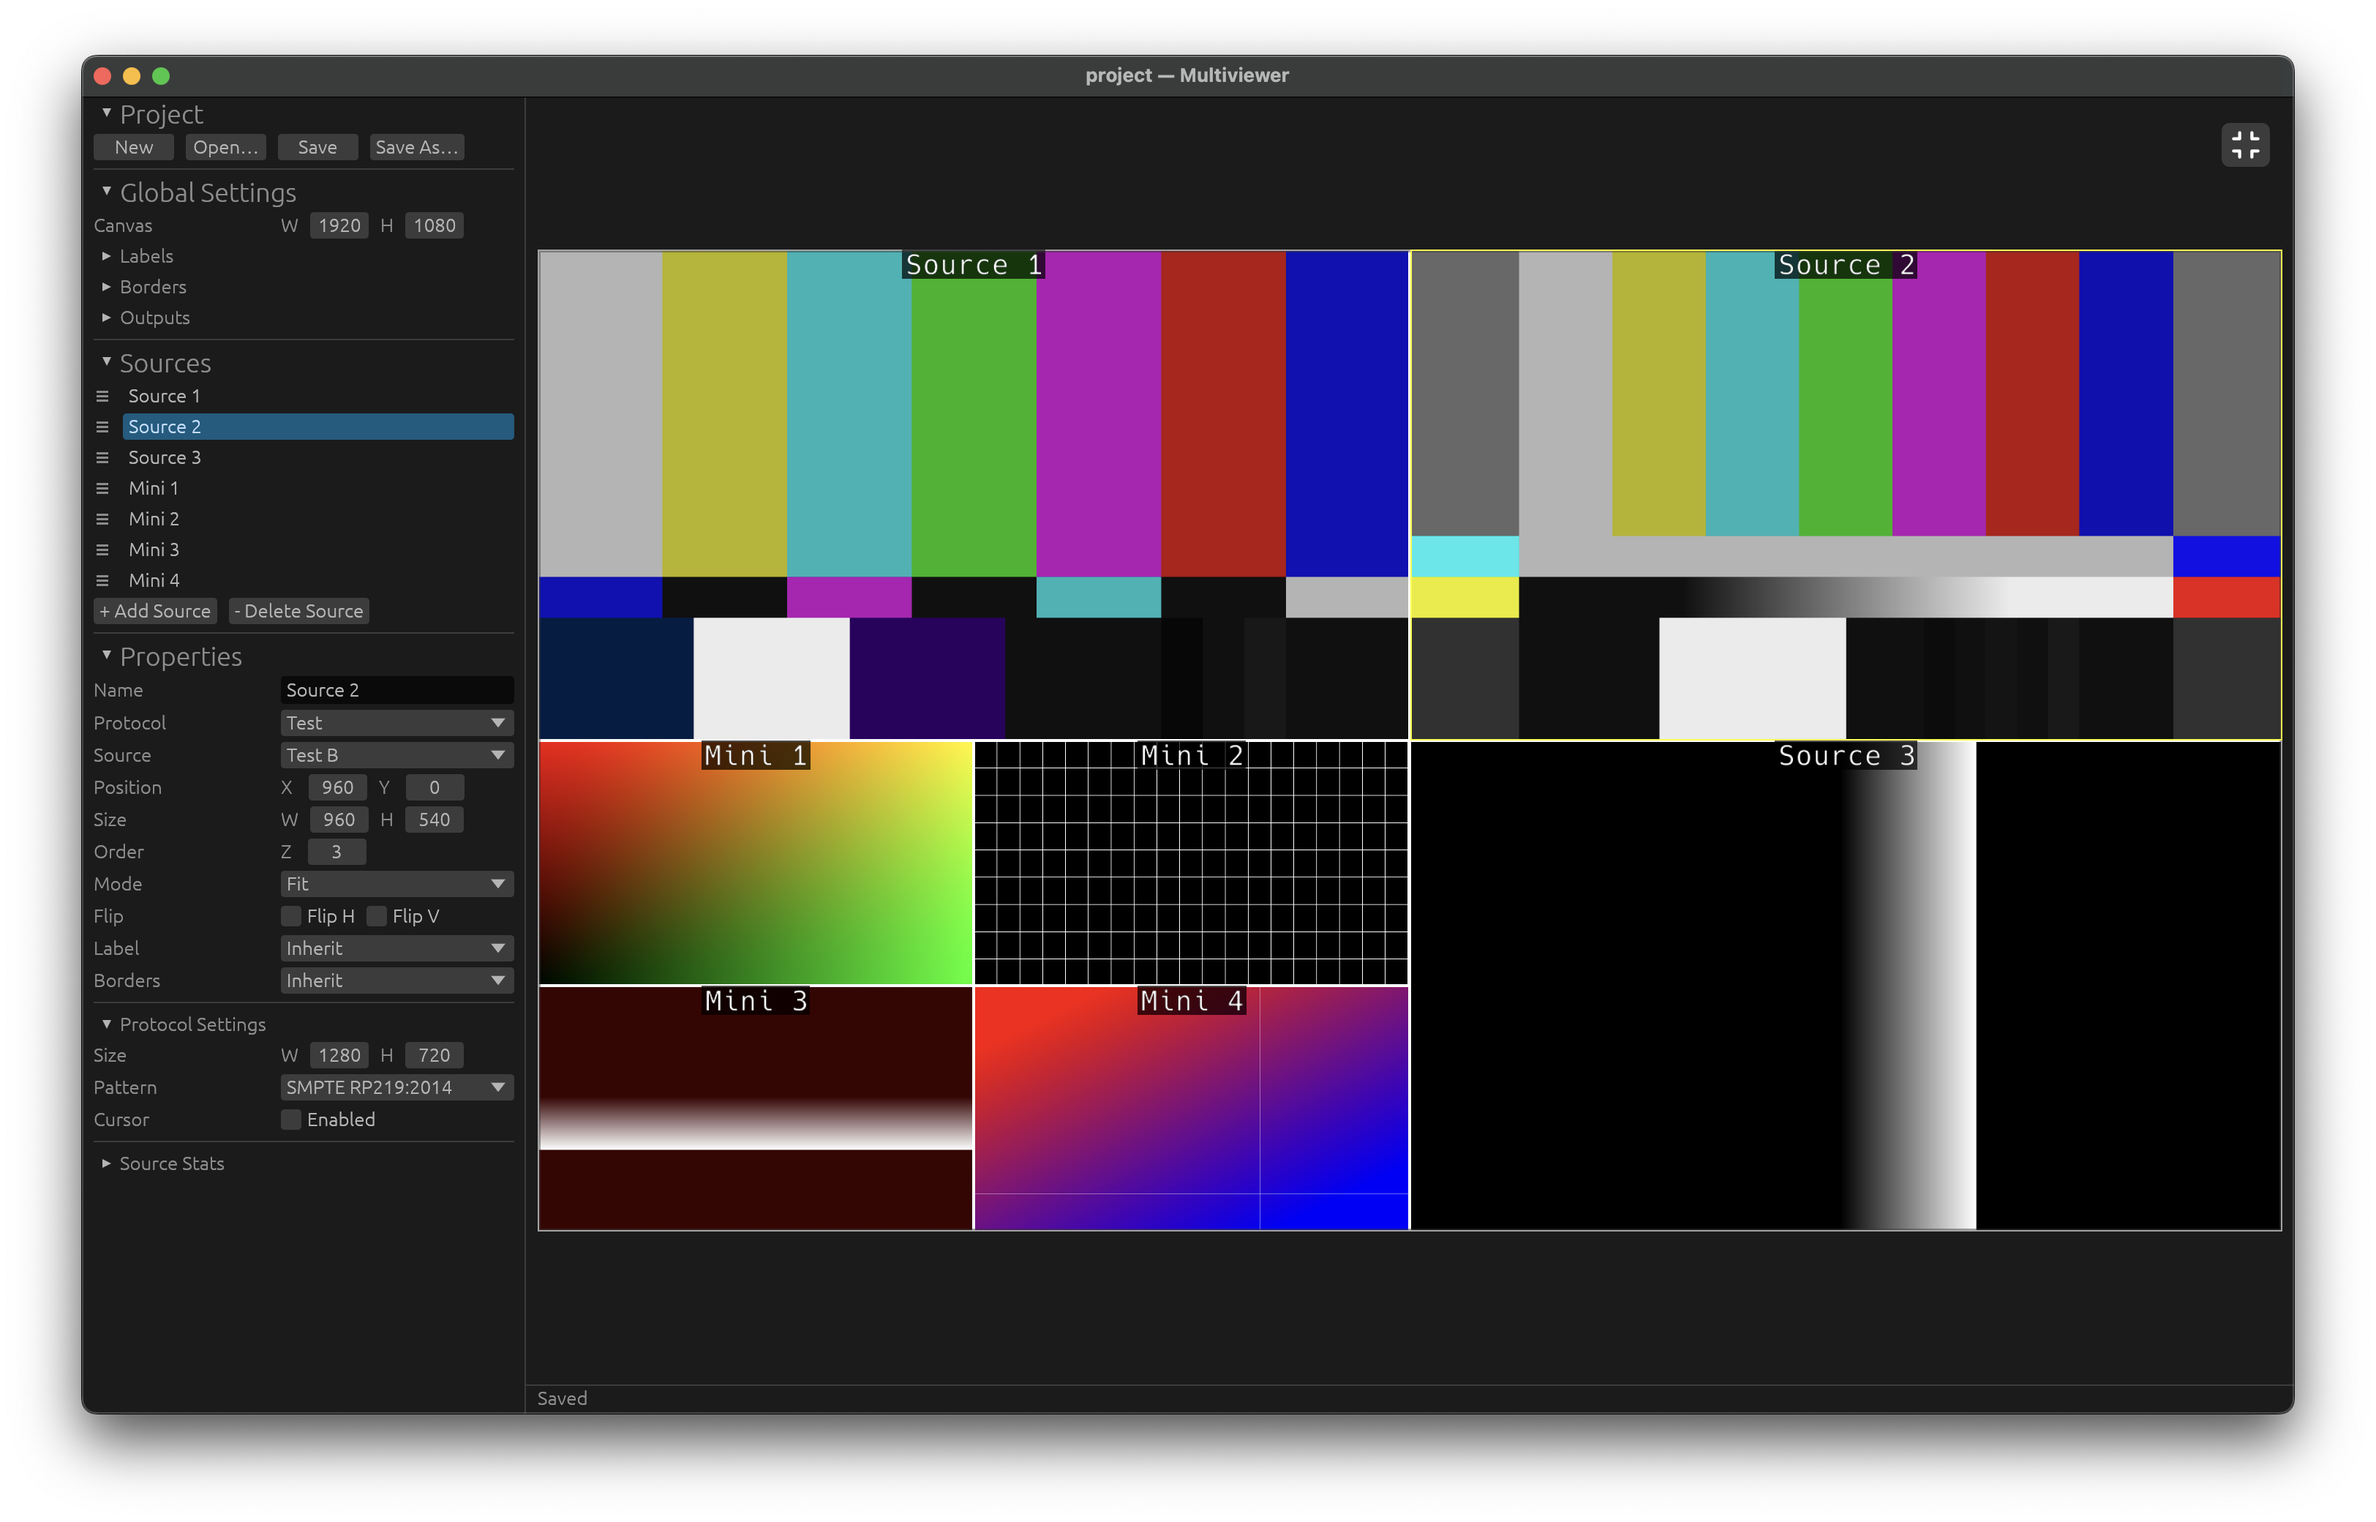
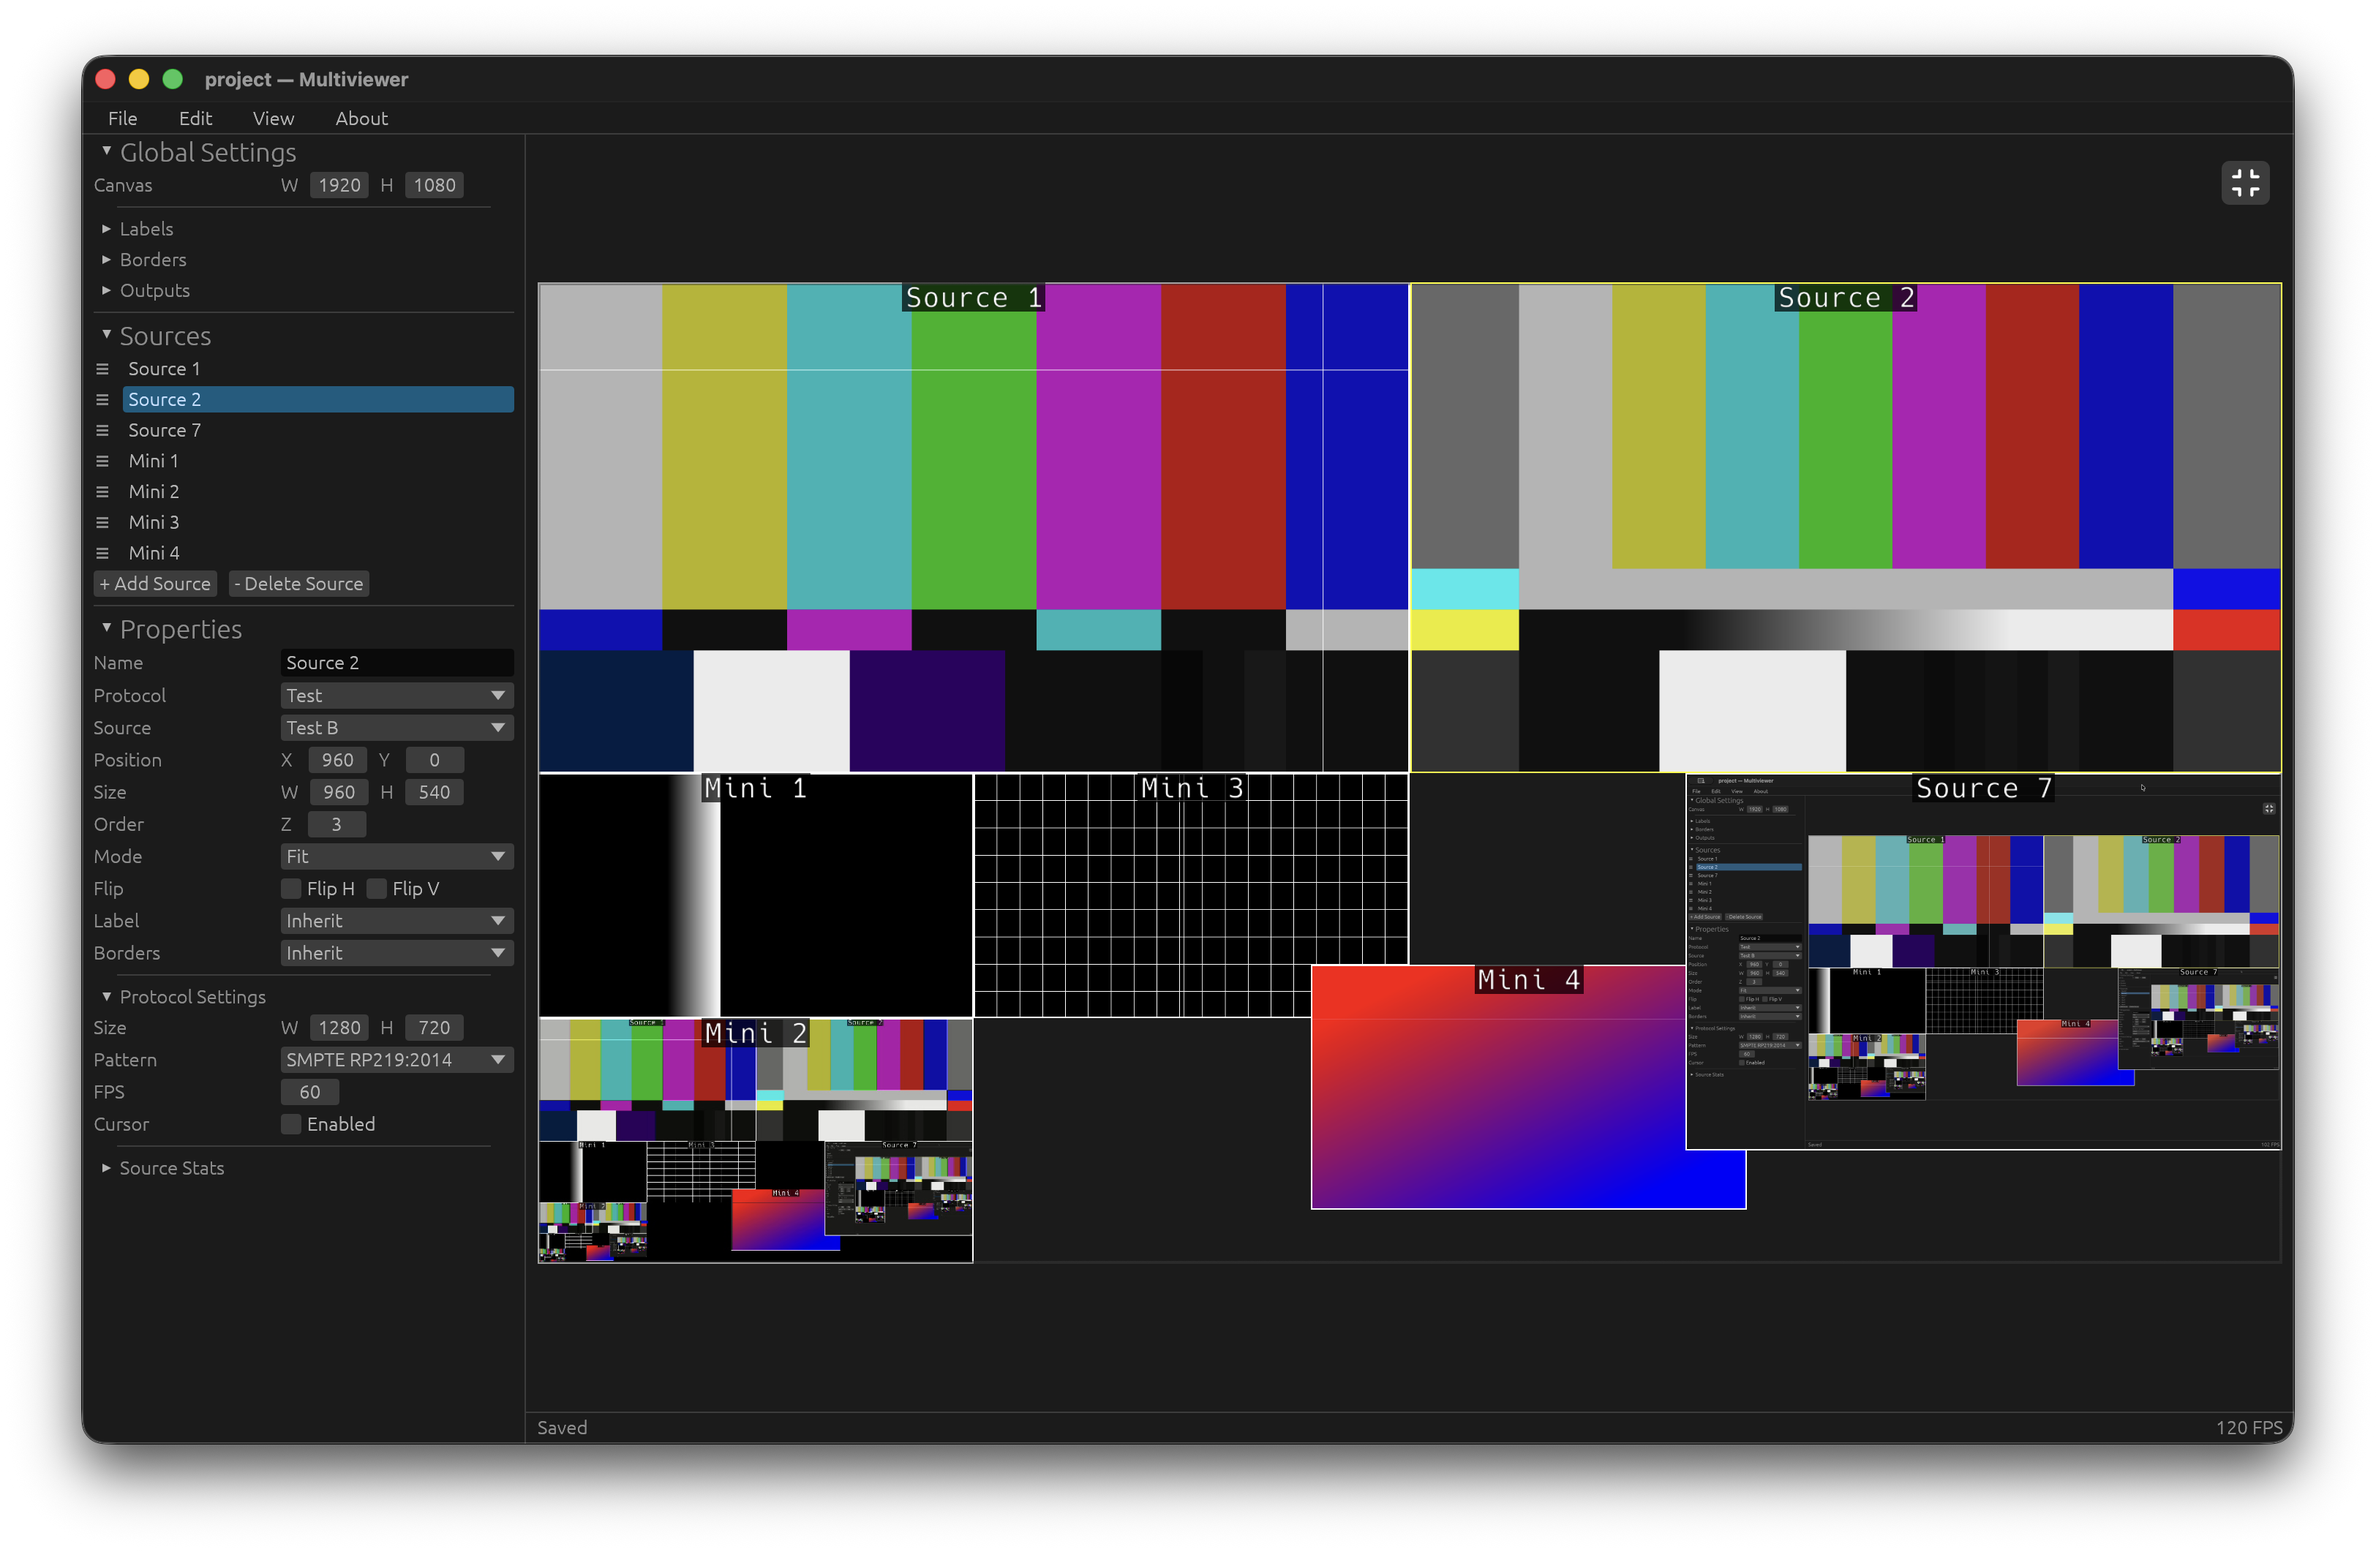
Release v1.0.0

diff --git a/README.md b/README.md
@@ -1,7 +1,7 @@
 # Multiviewer
 
 <div align="center">
-	<img alt="Version" src="https://img.shields.io/badge/dynamic/json?url=https%3A%2F%2Fgitlab.com%2Fmultiviewer%2Fmultiviewer%2F-%2Fraw%2Fmaster%2FCargo.toml&query=package.version&prefix=v&style=for-the-badge&label=Latest&link=https%3A%2F%2Fgitlab.com%2Fmultiviewer%2Fmultiviewer%2F-%2Freleases">
+	<img alt="Version" src="https://img.shields.io/badge/dynamic/toml?url=https%3A%2F%2Fgitlab.com%2Fpatopest%2Fmultiviewer%2F-%2Fraw%2Fmaster%2FCargo.toml&query=workspace.package.version&prefix=v&style=for-the-badge&label=Latest&link=https%3A%2F%2Fgitlab.com%2Fpatopest%2Fmultiviewer%2F-%2Freleases">
 	<img alt="License" src="https://img.shields.io/badge/license-MIT-blue?style=for-the-badge">
 	<img alt="Platforms" src="https://img.shields.io/badge/platforms-macOS%20%7C%20Windows%20%7C%20Linux-blue?style=for-the-badge">
 	
@@ -36,6 +36,7 @@
 | **MediaFoundation** | ✅ | — | Windows only | Webcams and capture devices |
 | **DirectShow** | ✅ | — | Windows only | Webcams and WDM capture devices |
 | **macOS Screen Capture** | ✅ | — | macOS only | Display and window screen capture |
+| **Windows Screen Capture** | ✅ | — | Windows only | Display and window screen capture |
 
 ---
 
@@ -79,8 +80,6 @@ task setup
 
 **Note:** This will download the NDI SDK to a local project directory which will be used during builds. You can also download and install the SDK system-wide from [NDI's website](https://ndi.video/download-ndi-sdk/)
 
-`task setup` only sets up the repository. On Linux it also needs a C/C++ toolchain and libclang (`grafton-ndi` runs `bindgen`): run `task linux:setup:system-deps` once on Debian/Ubuntu, or install `build-essential clang libclang-dev` yourself. The resulting `.deb` declares its runtime libraries in `depends`, so they are installed with the package.
-
 ### Run the App
 
 ```bash
@@ -107,7 +106,7 @@ Multiviewer ingests video from multiple protocols, composites them on a shared G
 
 1. **Source Threads** — each protocol runs on its own thread, decoding frames and handing them off to the main thread via lock-free `Arc` swaps.
 2. **GPU Compositing** — a single WGSL shader handles passthrough (RGBA/BGRA) and UYVY→RGB conversion (BT.601 for SD, BT.709 for HD) directly on the GPU.
-3. **Zero-Copy Paths** — Syphon sources feed GPU textures directly with no CPU copy; NDI and DeckLink use shared CPU buffers uploaded via `queue.write_texture()`.
+3. **Zero-Copy Paths** — Syphon/Spout sources feed GPU textures directly with no CPU copy; NDI and DeckLink use shared CPU buffers uploaded via `queue.write_texture()`.
 4. **Interactive UI** — the egui canvas lets you arrange sources freely, with snap-to-grid, zoom, and per-layer controls.
 
 ---
